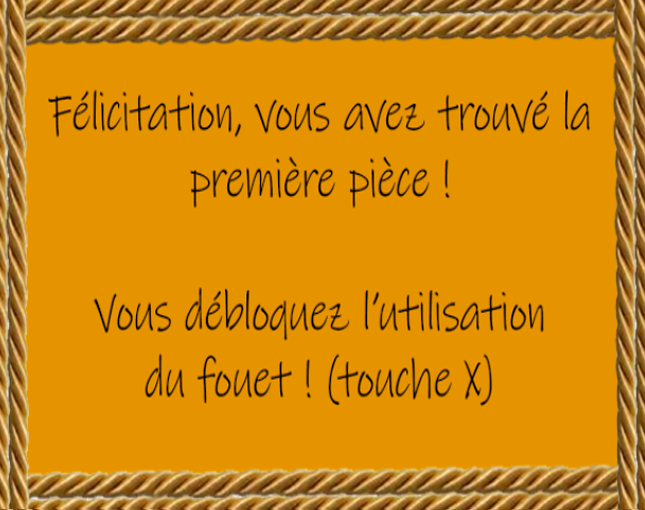
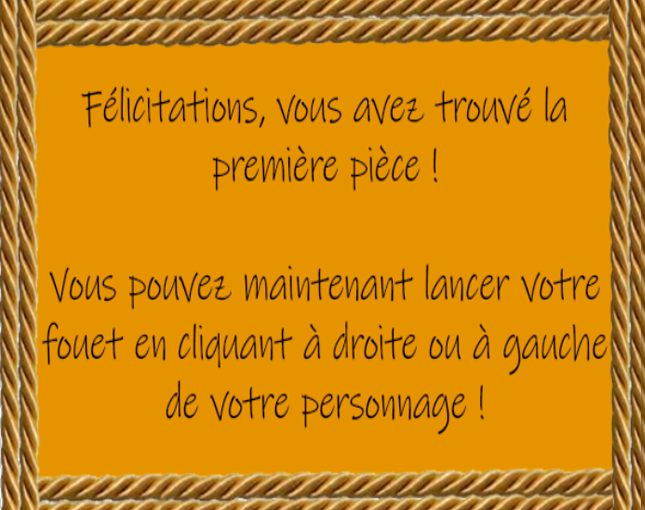
04/02
les serpents one shots
test zone déplacement modifiés, ça marche pas, tête non plus
ajout écran de démarrage
controle manette fait planter jeu, j'ai enlevé

diff --git a/jeu.html b/jeu.html
@@ -33,7 +33,7 @@
 
         var config = {
             type: Phaser.AUTO,
-           // width: 1600, height: 1600,
+            // width: 1600, height: 1600,
             width: 600, height: 500,
             physics: {
                 default: 'arcade',
@@ -103,7 +103,7 @@
         ennemiVivant2 = true;
         powerup1 = false;
         powerup2 = false;
-        powerup3 = false;        
+        powerup3 = false;
         add1 = false;
         add2 = false;
         add3 = false;
@@ -129,6 +129,7 @@
                 tileset
             );
 
+            //il s'appelle calque pic mais c'est surtout celui avec la lave
             const calque_pics1 = carteDuNiveau.createLayer(
                 "pic1",
                 tileset
@@ -139,7 +140,7 @@
                 tileset
             );
 
-            
+
             const calque_pics3 = carteDuNiveau.createLayer(
                 "pic3",
                 tileset
@@ -153,12 +154,15 @@
 
 
             calque_plateformes.setCollisionByProperty({ EstSolide: true });
+            //calque_pics1.setCollisionByProperty({ EstLave: true });
 
 
 
 
-
-
+            //activation manette
+            this.input.gamepad.once('connected', function (pad) {
+                controller = pad;
+            });
 
 
 
@@ -173,6 +177,7 @@
             this.player.setScale(0.8);
             this.player.setCollideWorldBounds(true);
             this.physics.add.collider(this.player, calque_plateformes);
+            this.physics.add.collider(this.player, calque_pics1, hitS);
 
 
 
@@ -182,11 +187,11 @@
             ui = this.add.image(this.player.x - 128 - 110, 62, 'ui')
             ui.setScrollFactor(0);
             ui.setScale(0.35);
-            ui.depth = 1;
+            ui.depth = 2;
 
             redbar = this.add.image(this.player.x - 350, 36, 'redbar')
             redbar.setScrollFactor(0);
-
+            redbar.depth = 1
 
             //ajout des pieces
 
@@ -237,8 +242,8 @@
 
 
 
-            comptPiece = this.add.text(this.player.x - 250 - 75, 60, '0', { fontFamily: 'Georgia, "Goudy Bookletter 1911", Times, serif',fontSize:45 });
-            comptPiece.depth=4
+            comptPiece = this.add.text(this.player.x - 250 - 75, 60, '0', { fontFamily: 'Georgia, "Goudy Bookletter 1911", Times, serif', fontSize: 45 });
+            comptPiece.depth = 4
             comptPiece.setScrollFactor(0);
 
 
@@ -370,7 +375,7 @@
                 this.spike2_2.body.allowGravity = false;
                 this.spike2_3.body.allowGravity = false;
                 this.spike2_4.body.allowGravity = false;
-              //  this.spike2_5.body.allowGravity = false;
+                //  this.spike2_5.body.allowGravity = false;
                 this.spike2_6.body.allowGravity = false;
                 this.spike2_7.body.allowGravity = false;
                 //this.spike2_8.body.allowGravity = false;
@@ -387,7 +392,7 @@
                 this.spike2_2.body.immovable = true;
                 this.spike2_3.body.immovable = true;
                 this.spike2_4.body.immovable = true;
-             //   this.spike2_5.body.immovable = true;
+                //   this.spike2_5.body.immovable = true;
                 this.spike2_6.body.immovable = true;
                 this.spike2_7.body.immovable = true;
                 // this.spike2_8.body.immovable = true;
@@ -405,7 +410,7 @@
                 this.physics.add.collider(this.player, this.spike2_2, playerHit2);
                 this.physics.add.collider(this.player, this.spike2_3, playerHit2);
                 this.physics.add.collider(this.player, this.spike2_4, playerHit2);
-               // this.physics.add.collider(this.player, this.spike2_5, playerHit2);
+                // this.physics.add.collider(this.player, this.spike2_5, playerHit2);
                 this.physics.add.collider(this.player, this.spike2_6, playerHit2);
                 this.physics.add.collider(this.player, this.spike2_7, playerHit2);
                 //  this.physics.add.collider(this.player, this.spike2_8, playerHit1);
@@ -437,21 +442,21 @@
                 this.spike3_9 = this.physics.add.sprite(816 - 160, 208 + 128 + 96, 'pics3_bas');
                 this.spike3_10 = this.physics.add.sprite(816 - 192, 208 + 128 + 96, 'pics3_bas');
                 this.spike3_11 = this.physics.add.sprite(816 - 192 - 32, 208 + 128 + 96, 'pics3_bas');
-               // this.spike3_12 = this.physics.add.sprite(816 - 192 - 64, 208 + 128 + 96, 'pics3_bas');
+                // this.spike3_12 = this.physics.add.sprite(816 - 192 - 64, 208 + 128 + 96, 'pics3_bas');
                 this.spike3_13 = this.physics.add.sprite(812 - 192 - 32 - 124 - 32, 208 + 128 + 96, 'pics3_bas');
                 //this.spike3_14 = this.physics.add.sprite(812-192-64-124-32, 208 + 128 +96, 'pics3_bas');
-                this.spike3_15 = this.physics.add.sprite(1136-96, 208 + 128 +96, 'pics3_gauche');
-                this.spike3_16 = this.physics.add.sprite(1136-96, 208 + 128 +96+32, 'pics3_gauche');                
-                this.spike3_17 = this.physics.add.sprite(1136-96, 208 + 128 +96+64, 'pics3_gauche');
-                this.spike3_18 = this.physics.add.sprite(1136-96, 208 + 128 +96+32+64, 'pics3_gauche');
-                this.spike3_19 = this.physics.add.sprite(1136-96, 208 + 128 +96+128, 'pics3_gauche');
-                this.spike3_20 = this.physics.add.sprite(1136-96, 208 + 128 +96+32+128, 'pics3_gauche');                
-                this.spike3_21 = this.physics.add.sprite(1136-96, 208 + 128 +96+64+128, 'pics3_gauche');
-                this.spike3_22 = this.physics.add.sprite(1136-96, 208 + 128 +96+32+64+128, 'pics3_gauche');
-                this.spike3_23 = this.physics.add.sprite(1136-96-64, 208 + 128 +96+32+128, 'pics3_droite');                
-                this.spike3_24 = this.physics.add.sprite(1136-96-64, 208 + 128 +96+64+128, 'pics3_droite');
-                this.spike3_25 = this.physics.add.sprite(1136-96-64, 208 + 128 +96+32+64+128, 'pics3_droite');
-                this.spike3_26 = this.physics.add.sprite(1136-96-64, 208 + 128 +96+128+128, 'pics3_droite');
+                this.spike3_15 = this.physics.add.sprite(1136 - 96, 208 + 128 + 96, 'pics3_gauche');
+                this.spike3_16 = this.physics.add.sprite(1136 - 96, 208 + 128 + 96 + 32, 'pics3_gauche');
+                this.spike3_17 = this.physics.add.sprite(1136 - 96, 208 + 128 + 96 + 64, 'pics3_gauche');
+                this.spike3_18 = this.physics.add.sprite(1136 - 96, 208 + 128 + 96 + 32 + 64, 'pics3_gauche');
+                this.spike3_19 = this.physics.add.sprite(1136 - 96, 208 + 128 + 96 + 128, 'pics3_gauche');
+                this.spike3_20 = this.physics.add.sprite(1136 - 96, 208 + 128 + 96 + 32 + 128, 'pics3_gauche');
+                this.spike3_21 = this.physics.add.sprite(1136 - 96, 208 + 128 + 96 + 64 + 128, 'pics3_gauche');
+                this.spike3_22 = this.physics.add.sprite(1136 - 96, 208 + 128 + 96 + 32 + 64 + 128, 'pics3_gauche');
+                this.spike3_23 = this.physics.add.sprite(1136 - 96 - 64, 208 + 128 + 96 + 32 + 128, 'pics3_droite');
+                this.spike3_24 = this.physics.add.sprite(1136 - 96 - 64, 208 + 128 + 96 + 64 + 128, 'pics3_droite');
+                this.spike3_25 = this.physics.add.sprite(1136 - 96 - 64, 208 + 128 + 96 + 32 + 64 + 128, 'pics3_droite');
+                this.spike3_26 = this.physics.add.sprite(1136 - 96 - 64, 208 + 128 + 96 + 128 + 128, 'pics3_droite');
 
 
 
@@ -468,7 +473,7 @@
                 this.spike3_11.body.allowGravity = false;
                 //this.spike3_12.body.allowGravity = false;
                 this.spike3_13.body.allowGravity = false;
-               // this.spike3_14.body.allowGravity = false;
+                // this.spike3_14.body.allowGravity = false;
                 this.spike3_15.body.allowGravity = false;
                 this.spike3_16.body.allowGravity = false;
                 this.spike3_17.body.allowGravity = false;
@@ -493,9 +498,9 @@
                 this.spike3_9.body.immovable = true;
                 this.spike3_10.body.immovable = true;
                 this.spike3_11.body.immovable = true;
-             //   this.spike3_12.body.immovable = true;
+                //   this.spike3_12.body.immovable = true;
                 this.spike3_13.body.immovable = true;
-               // this.spike3_14.body.immovable = true;
+                // this.spike3_14.body.immovable = true;
                 this.spike3_15.body.immovable = true;
                 this.spike3_16.body.immovable = true;
                 this.spike3_17.body.immovable = true;
@@ -503,7 +508,7 @@
                 this.spike3_19.body.immovable = true;
                 this.spike3_20.body.immovable = true;
                 this.spike3_21.body.immovable = true;
-                this.spike3_22.body.immovable = true;                
+                this.spike3_22.body.immovable = true;
                 this.spike3_23.body.immovable = true;
                 this.spike3_24.body.immovable = true;
                 this.spike3_25.body.immovable = true;
@@ -520,9 +525,9 @@
                 this.physics.add.collider(this.player, this.spike3_9, playerHit3);
                 this.physics.add.collider(this.player, this.spike3_10, playerHit3);
                 this.physics.add.collider(this.player, this.spike3_11, playerHit3);
-             //   this.physics.add.collider(this.player, this.spike3_12, playerHit3);
+                //   this.physics.add.collider(this.player, this.spike3_12, playerHit3);
                 this.physics.add.collider(this.player, this.spike3_13, playerHit3);
-             //   this.physics.add.collider(this.player, this.spike3_14, playerHit1);
+                //   this.physics.add.collider(this.player, this.spike3_14, playerHit1);
                 this.physics.add.collider(this.player, this.spike3_15, playerHit3);
                 this.physics.add.collider(this.player, this.spike3_16, playerHit3);
                 this.physics.add.collider(this.player, this.spike3_17, playerHit3);
@@ -530,7 +535,7 @@
                 this.physics.add.collider(this.player, this.spike3_19, playerHit3);
                 this.physics.add.collider(this.player, this.spike3_20, playerHit3);
                 this.physics.add.collider(this.player, this.spike3_21, playerHit3);
-                this.physics.add.collider(this.player, this.spike3_22, playerHit3);                
+                this.physics.add.collider(this.player, this.spike3_22, playerHit3);
                 this.physics.add.collider(this.player, this.spike3_23, playerHit3);
                 this.physics.add.collider(this.player, this.spike3_24, playerHit3);
                 this.physics.add.collider(this.player, this.spike3_25, playerHit3);
@@ -648,10 +653,10 @@
 
             //destruction des pieces quand recup
             if (powerup1) {
-                
+
                 this.piece1.setActive(false).setVisible(false);
-                if(!add1){
-                    add1=true
+                if (!add1) {
+                    add1 = true
                     counterPiece++
 
                 }
@@ -659,27 +664,27 @@
             }
             if (powerup2) {
                 this.piece2.setActive(false).setVisible(false);
-                if(!add2){
-                    add2=true
+                if (!add2) {
+                    add2 = true
                     counterPiece++
 
                 }
             }
             if (powerup3) {
                 this.piece3.setActive(false).setVisible(false);
-                if(!add3){
-                    add3=true
+                if (!add3) {
+                    add3 = true
                     counterPiece++
 
                 }
             }
 
 
-
+            //update du compteur de pièces
             comptPiece.setText(counterPiece)
 
 
-
+            //déplacements des ennemis qui bougent
             if (ennemiVivant) {
                 if (this.serpent.body.blocked.left) {
                     this.serpent.setVelocityX(50);
@@ -712,8 +717,9 @@
             }
 
 
+
+            //affichage message game over 
             if (gameOver) {
-                //affichage message game over 
                 texteG.visible = true;
                 texteG.immovable = true;
                 texteG.x = this.player.x;
@@ -723,7 +729,8 @@
                 return;
             }
 
-            if(powerup1 && powerup2 && powerup3){
+            //affichage message victoire
+            if (powerup1 && powerup2 && powerup3) {
                 texteV.visible = true;
                 texteV.immovable = true;
                 texteV.x = this.player.x;
@@ -737,20 +744,23 @@
 
 
             //lancement du fouet
-            this.input.on('pointerdown', (pointer) => {
-                this.fouet.setActive(true)
-                this.fouet.x = this.player.x
-                this.fouet.y = this.player.y
-                if (pointer.x < 400) {
+            if (powerup1) {
+                this.input.on('pointerdown', (pointer) => {
+                    this.fouet.setActive(true)
+                    this.fouet.x = this.player.x
+                    this.fouet.y = this.player.y
+                    if (pointer.x < 400) {
 
-                    this.fouet.setVelocityX(-150)
+                        this.fouet.setVelocityX(-150)
 
-                }
-                else {
-                    this.fouet.setVelocityX(150)
+                    }
+                    else {
+                        this.fouet.setVelocityX(150)
 
-                }
-            });
+                    }
+                });
+            }
+
             //anim du fouet
             this.fouet.setAngle(this.fouet.x)
 
@@ -763,7 +773,7 @@
 
                 this.player.setVelocityX(-160); //alors vitesse négative en X
                 this.player.anims.play('left', true); //et animation => gauche
-
+                this.player.tint =0xffffff;
 
 
             }
@@ -873,7 +883,7 @@
             if (!vieModifiee) {
                 vie--
                 console.log(vie)
-
+                
                 redbar.x = redbar.x - 21;
 
                 if (vie <= 0) {
@@ -947,25 +957,13 @@
 
         function playerHitS() {
             if (!vieModifiee) {
-                vie = vie - 2
+                vie = vie - 10
                 console.log(vie)
-
-                redbar.x = redbar.x - 42;
-
-                if (vie <= 0) {
-                    console.log("mort")
+                gameOver = true;
 
 
-                    gameOver = true;
-                }
 
 
-                //inserer anim frames invincibilité
-                vieModifiee = true;
-                setTimeout(() => {
-                    vieModifiee = false;
-
-                }, 1000);
             }
 
         }
@@ -978,7 +976,7 @@
             setTimeout(() => {
                 texte1.visible = false;
                 isPlayerMovable = true;
-                
+
             }, 5000);
 
 
@@ -996,7 +994,7 @@
         }
 
         function playerHitPiece3() {
-           //    texte3.visible = true;
+            //    texte3.visible = true;
             powerup3 = true
 
 
@@ -1004,18 +1002,18 @@
 
 
         function destroySerpent() {
-            ennemiVivant=false
+            ennemiVivant = false
 
-         
+
 
 
         }
 
 
         function destroySerpent2() {
-            ennemiVivant2=false
+            ennemiVivant2 = false
 
-         
+
 
 
         }
